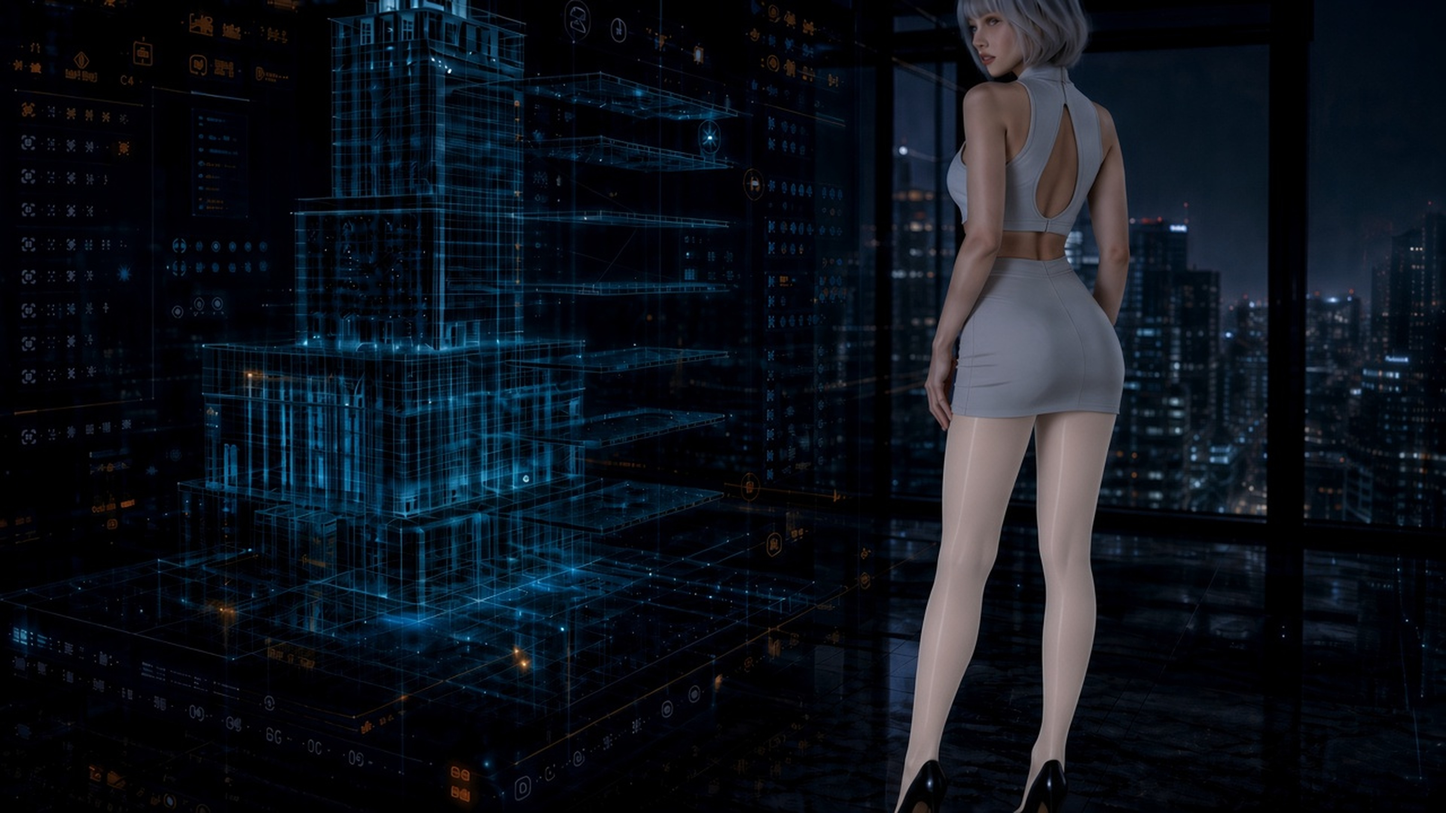
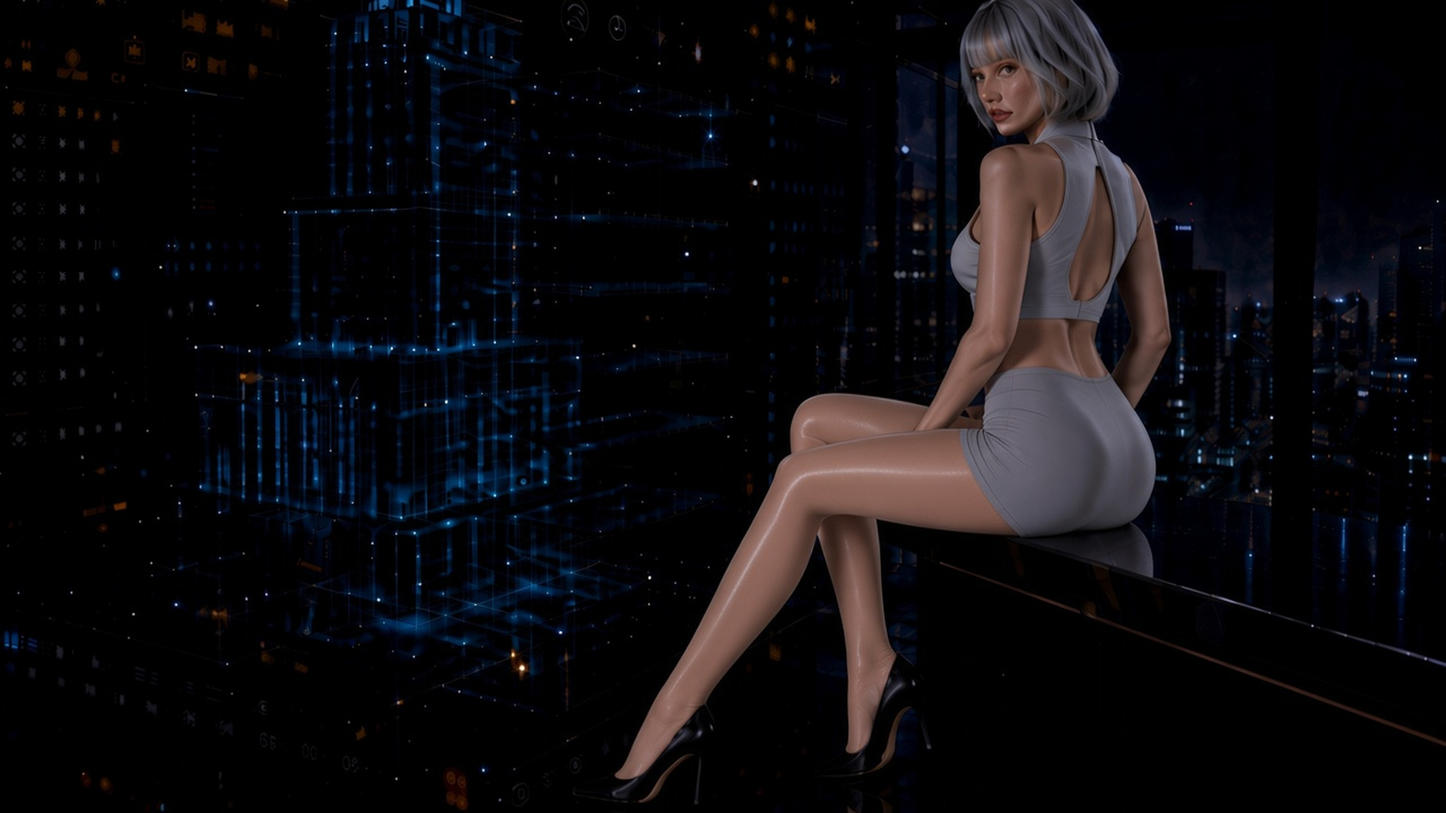
Seat neon-dystopia hours 16 and 17 on the OS consoles
Keep the operators closer in 16:9 with sheer hose and matched skin, and leave local trials untracked.

diff --git a/images/neon-dystopia/task-blade-runner-2049.md b/images/neon-dystopia/task-blade-runner-2049.md
@@ -10,7 +10,7 @@
 - 翻譯的是色域、光、天氣、建築尺度與時段情緒
 - 即使只做 12–16 張獨特圖，仍須保留 `0.jpg` 到 `23.jpg`
 
-本文件是主題研究與產圖 brief。`9.jpg`–`14.jpg` 已各換成獨立實體圖（該段依當次指示含人物）。`12.jpg` 依後續指示把華勒斯水殿人物改為黑金兩件式、加大胸前鏤空、極薄黑褲襪；`15.jpg`–`17.jpg` 依後續指示改成 12／20 的剪裁：兩件式、胸前或背後鑽空、淺薄白皙絲襪；`15` 去掉大衣；`16` 酒紅兩件式；`17` 冰灰回眸；`18.jpg` 為黃昏 OS 酒紅長捲髮操作者、超薄透膚黑褲襪；`19.jpg` 為體積孿生裡的酒紅捲髮操作者（正面微側、透膚黑褲襪）；`20.jpg` 為夜前操作甲板的酒紅捲髮操作者（歐美日本混血嘗試、極薄酒紅薄紗褲襪、高領加大胸前鏤空上衣；金茶色絲光易被讀成油亮裸腿，已改色）。
+本文件是主題研究與產圖 brief。`9.jpg`–`14.jpg` 已各換成獨立實體圖（該段依當次指示含人物）。`12.jpg` 依後續指示把華勒斯水殿人物改為黑金兩件式、加大胸前鏤空、極薄黑褲襪；`15.jpg`–`17.jpg` 依後續指示改成 12／20 的剪裁：兩件式、胸前或背後鑽空、淺薄白皙絲襪；`15` 去掉大衣；`16` 酒紅兩件式改為側坐控制台、Pretty Polly 米色 10 denier 乾透褲襪（選定 C，排除油亮 B）、上半身膚色調亮與腿對齊；`17` 冰灰回眸改為窗沿側坐、背後鑽空、迷你裙下襬再明顯上收（3 公分指令無效後改用可見的大腿露出量）、5 denier 近乎隱形乾透褲襪、膚色與腿對齊、回眸看鏡頭；`18.jpg` 為黃昏 OS 酒紅長捲髮操作者、超薄透膚黑褲襪；`19.jpg` 為體積孿生裡的酒紅捲髮操作者（正面微側、透膚黑褲襪）；`20.jpg` 為夜前操作甲板的酒紅捲髮操作者（歐美日本混血嘗試、極薄酒紅薄紗褲襪、高領加大胸前鏤空上衣；金茶色絲光易被讀成油亮裸腿，已改色）。
 
 ## 現況對照
 
@@ -25,8 +25,8 @@
 | `8` | `8.jpg` | 機構大廳＋黑金短洋裝、極薄黑褲襪 | 側步拉近，與 7 同廳不同人 |
 | `9–14` | 各一張獨立圖 | 已重產：LED 雨衣近景／廳堂／金階／水殿／霧堤近景／Vegas | `9` 留粉藍 LED；`13` 改灰霧堤、去掉重複 LED 牆 |
 | `15` | `15.jpg` | 城市 OS＋黑金兩件式、胸前鑽空、淺薄白皙絲襪 | 大衣已拿掉；褲襪淡、薄 |
-| `16` | `16.jpg` | 交通／電網 OS＋酒紅兩件式、淺薄白皙絲襪 | 不再用實色象牙／酒紅腿 |
-| `17` | `17.jpg` | 行政區模組＋冰灰回眸、淺薄白皙絲襪 | 背後鑽空；褲襪淡、薄 |
+| `16` | `16.jpg` | 交通／電網 OS＋酒紅兩件式側坐、Pretty Polly 米色 10 denier 乾透褲襪 | 膚色已調亮；選定 C 乾透，不是 B 的強亮面 |
+| `17` | `17.jpg` | 行政區模組＋冰灰窗沿側坐、回眸、高光油亮裸色絲襪 | 迷你裙保留；材質對齊亮面尼龍商品圖，不是內衣目錄 |
 | `18` | `18.jpg` | 黃昏 OS＋酒紅捲髮回眸、透膚黑褲襪 | 青界面壓過琥珀天際線 |
 | `19` | `19.jpg` | 體積孿生＋酒紅捲髮正面微側 | 系統填滿景深；透膚黑褲襪 |
 | `20` | `20.jpg` | 操作甲板＋酒紅捲髮、極薄褲襪、加大胸前鏤空 | 擋風玻璃＝桌面；夜前 |
@@ -181,8 +181,8 @@ Deakins 要大面積死黑，只靠載具燈；浪打來才被照到，不要照
 | 小時 | 軟體畫面 | 調性 |
 |---|---|---|
 | `15` | OS 主畫面＋操作者：多重視窗、中央城市孿生 | 午後、界面剛亮；窄裙／透明絲襪／高跟鞋 |
-| `16` | 交通／電網圖層＋酒紅兩件式操作者（低髮髻、側臉） | 儀表密度升高 |
-| `17` | 行政區模組＋銀短髮操作者（回眸） | 更近、更幾何；冰灰兩件式 |
+| `16` | 交通／電網圖層＋酒紅兩件式側坐操作者（低髮髻、側臉） | 儀表密度升高；Pretty Polly 米色 10 denier 乾透褲襪 |
+| `17` | 行政區模組＋銀短髮操作者（窗沿側坐回眸） | 更近、更幾何；冰灰兩件式；下襬再上收；5 denier 近乎隱形褲襪 |
 | `18` | 黃昏 OS＋酒紅捲髮回眸 | 青界面光壓過琥珀天際線；超薄透膚黑褲襪 |
 | `19` | 全幅體積城市孿生＋操作者正面微側 | 系統幾乎填滿景深 |
 | `20` | 操作甲板＋極薄酒紅褲襪、加大胸前鏤空 | 夜前，城市＝桌布 |
@@ -231,8 +231,8 @@ Villeneuve：從凍結的雪定義更殘酷的未來 LA，銀白而不是黑。[
 | `11–13` | `12.jpg` | 華勒斯水殿 | 全片唯一陽光：金、焦散、慢移光；黑金兩件式、加大胸前鏤空、極薄黑褲襪 |
 | `14` | `14.jpg` | Vegas 雕像庭（已產，含人物） | 赭紅塵 |
 | `15` | `15.jpg` | 城市 OS＋黑金兩件式 | 胸前鑽空、淺薄白皙絲襪；午後界面 |
-| `16` | `16.jpg` | 交通／電網＋酒紅兩件式 | 淺薄白皙絲襪；儀表密度升高 |
-| `17` | `17.jpg` | 行政區模組＋冰灰回眸 | 背後鑽空、淺薄白皙絲襪 |
+| `16` | `16.jpg` | 交通／電網＋酒紅兩件式側坐 | Pretty Polly 米色 10 denier 乾透褲襪；膚色與腿對齊；儀表密度升高 |
+| `17` | `17.jpg` | 行政區模組＋冰灰窗沿側坐回眸 | 背後鑽空、下襬再上收、5 denier 近乎隱形褲襪、膚色與腿對齊 |
 | `18` | `18.jpg` | 黃昏 OS＋酒紅捲髮回眸 | 透膚黑褲襪；界面光壓過天際線 |
 | `19` | `19.jpg` | 全幅體積孿生＋正面微側操作者 | 系統填滿景深；透膚黑褲襪 |
 | `20` | `20.jpg` | 操作甲板＋正面微側操作者 | 擋風玻璃＝桌面；極薄酒紅薄紗褲襪、高領加大胸前鏤空，無後中縫 |
